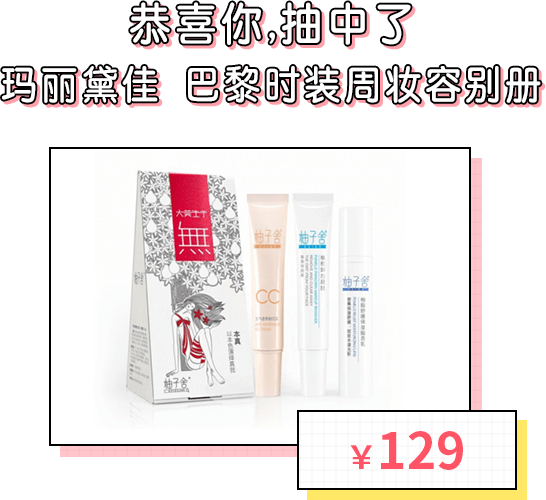
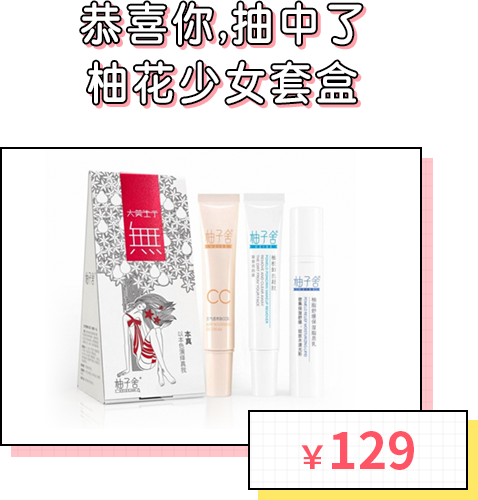
优化集金币大转盘

diff --git a/src/page/topic/beauty_town/luckdraw_3.vue b/src/page/topic/beauty_town/luckdraw_3.vue
@@ -44,7 +44,7 @@
         <div class="wheel-box">
           <div id="rotary-table" class="wheel">
             <div :class="`gift gift_${index}`" v-for="(item,index) in gift_txt" :key="index">
-              <span>{{item.prize ? item.prize : ''}}</span>
+              <span>{{item.prize_name ? item.prize_name : ''}}</span>
             </div>
           </div>
           <img class="start" src="/static/topic/beauty_down/luckdraw_3/arrow.png" alt="点击开始" @click="luckyDraw">
@@ -59,8 +59,8 @@
           <div class="received-box" v-if="first_state">
             <div class="result">
               <!--非实物：888元俏猫美妆券-->
-              <div class="p2" v-if="gift_id == '8'">
-                <img class="pro_img" src="/static/topic/beauty_down/luckdraw_3/product_888.png" alt="">
+              <div class="p2" v-if="gift_id == '7' || gift_id == '8'">
+                <img class="pro_img" :src="pro_img" alt="">
                 <p class="tip-txt">完成问卷还可以获得抽奖机会~</p>
                 <div class="next-box">
                   <span class="next" @click="shareBoxShow = true">分享</span>
@@ -70,7 +70,7 @@
               <!--实物：-->
               <div class="p2" v-else>
                 <div class="pro_box">
-                  <img class="pro_img" src="/static/topic/beauty_down/luckdraw_3/product_MLDJ.png" alt="">
+                  <img class="pro_img" :src="pro_img" alt="">
                 </div>
                 <button class="delivery" @click="goReceipt">填写收货信息</button>
               </div>
@@ -80,6 +80,11 @@
           <div class="received-box" v-else>
             <div class="result">
               <p class="p1">{{gift_msg}}</p>
+              <p class="tip-txt">完成问卷还可以获得抽奖机会~</p>
+              <div class="next-box">
+                <span class="next" @click="shareBoxShow = true">分享</span>
+                <span class="next" @click="goQuestionnaire">问卷</span>
+              </div>
             </div>
           </div>
         </div>
@@ -103,7 +108,7 @@ import common from "../../../common/common"
 import { Toast } from 'mint-ui';
 import '../../../../node_modules/mint-ui/lib/toast/style.css';
 import { setStore } from "../../../common/store";
-import { getCode, authLogin, userIsLogin, getPrize, setDraw } from "@/service/getData";
+import { getCode, authLogin, userIsLogin, getPrizeList, getLuckDraw } from "@/service/getData";
 export default {
   name: "luckDraw1230",
   data() {
@@ -111,12 +116,11 @@ export default {
       plid: '', // 推广来源
       isbg: false, //虚化背景
       first_state: true, // 第一次领取
-      // gift_txt: ['谢谢参与', '10M', '20M', '30M', '50M', '100M', '500M', '888元美妆券'],
+      // gift_txt: ['PBA经典款BB霜 小样', '玛丽黛佳 怪怪收纳袋', 'Won-in箱包（双肩）', '雅美菲套刷', '玛丽黛佳 巴黎时装周妆容别册', '柚花少女套盒', '俏猫888元美妆券', 'IPHONE X'],
       gift_txt: [],
-      gift_con: ['4', '3', '5', '6', '2','7', '1','0'], // ['谢谢参与', '10M', '20M', '30M', '50M', '100M', '500M', '888元美妆券']，对应的位置
-      gift_id: 1, // 后端返回抽中的奖品
-      gift_content: '', // 奖品内容
-      ticket_link: 'https://at.umeng.com/S15Tba', // 电影票链接
+      gift_con: ['7', '6', '5', '4', '3','2', '1','0'], // ['PBA经典款BB霜 小样', '玛丽黛佳 怪怪收纳袋', 'Won-in箱包（双肩）', '雅美菲套刷', '玛丽黛佳 巴黎时装周妆容别册', '柚花少女套盒', '俏猫888元美妆券', 'IPHONE X']，对应的位置
+      gift_id: 7, // 后端返回抽中的奖品
+      pro_img: '', // 奖品图片
       gift_msg: '', // 抽奖提示
       offOn: true, // 是否转动
       num: 0,
@@ -169,12 +173,12 @@ export default {
   methods: {
     /*获取抽奖礼品列表*/
     async getGiftList() {
-      let res = await getPrize();
-      let resData = eval(res.data);
-      for (var i in resData) {
-        this.gift_txt.push(resData[i]);
+      let res = await getPrizeList();
+      if(res.status == 'ok'){
+        this.gift_txt = res.data;
+        // console.log("奖品列表:", this.gift_txt);
       }
-      // console.log("gift_txt:", this.gift_txt);
+
     },
 
     /*抽奖*/
@@ -195,7 +199,7 @@ export default {
         if (this.offOn) { // 防止连续点击抽奖
           this.num++;
           this.offOn = !this.offOn;
-          let setDrawData = await setDraw();
+          let setDrawData = await getLuckDraw();
           if (setDrawData.status == 'ok') {
             this.ratating(setDrawData.data);
           } else {
@@ -214,22 +218,22 @@ export default {
     ratating(data) {
       let _this = this;
       // let cat = Math.floor(Math.random()*8)*45; // 前端随机
-      if (data.code == '1') {
-        _this.gift_id = 1; // 1:谢谢参与
-      } else if (data.code == '2') {
-        _this.gift_id = 2; // 2:10M
-      } else if (data.code == '3') {
-        _this.gift_id = 3; // 3:20M
-      } else if (data.code == '4') {
-        _this.gift_id = 4; // 4:30M
-      } else if (data.code == '5') {
-        _this.gift_id = 5; // 5:50M
-      } else if (data.code == '6') {
-        _this.gift_id = 6; // 6:100M
-      } else if (data.code == '7') {
-        _this.gift_id = 7; // 7:电影票
-      } else if (data.code == '8') {
-        _this.gift_id = 8; // 8:888元美妆券
+      if (data.prize_id == '1') {
+        _this.gift_id = 1; // 1:PBA经典款BB霜 小样
+      } else if (data.prize_id == '2') {
+        _this.gift_id = 2; // 2:玛丽黛佳 怪怪收纳袋
+      } else if (data.prize_id == '3') {
+        _this.gift_id = 3; // 3:Won-in箱包（双肩）
+      } else if (data.prize_id == '4') {
+        _this.gift_id = 4; // 4:雅美菲套刷
+      } else if (data.prize_id == '5') {
+        _this.gift_id = 5; // 5:玛丽黛佳 巴黎时装周妆容别册
+      } else if (data.prize_id == '6') {
+        _this.gift_id = 6; // 6:柚花少女套盒
+      } else if (data.prize_id == '7') {
+        _this.gift_id = 7; // 7:俏猫888元美妆券
+      } else if (data.prize_id == '8') {
+        _this.gift_id = 8; // 8:IPHONE X
       }
       let cat = _this.gift_con[(_this.gift_id - 1) >= 0 ? (_this.gift_id - 1) : 1] * 45; // 后端抽奖
       let rotaryTable = document.getElementById("rotary-table");
@@ -242,43 +246,43 @@ export default {
           _this.n = _this.rdm % 360;
           switch (_this.n) { // 转动幅度
             case 0:
-              // 888元美妆券
-              _this.gift_content = data.name;
+              // IPHONE X
+              _this.pro_img = '/static/topic/beauty_down/luckdraw_3/product_888.png';
               _this.isbg = true;
               break;
             case 45:
-              // 500M
-              _this.gift_content = data.name;
+              // 俏猫888元美妆券
+              _this.pro_img = '/static/topic/beauty_down/luckdraw_3/product_888.png';
               _this.isbg = true;
               break;
             case 90:
-              // 50M
-              _this.gift_content = data.name;
+              // 柚花少女套盒
+              _this.pro_img = '/static/topic/beauty_down/luckdraw_3/product_YHTH.png';
               _this.isbg = true;
               break;
             case 135:
-              // 10M
-              _this.gift_content = data.name;
+              // 玛丽黛佳 巴黎时装周妆容别册
+              _this.pro_img = '/static/topic/beauty_down/luckdraw_3/product_Magazine.png';
               _this.isbg = true;
               break;
             case 180:
-              // 谢谢参与
-              _this.gift_content = data.name;
+              // 雅美菲套刷
+              _this.pro_img = '/static/topic/beauty_down/luckdraw_3/product_YMF.png';
               _this.isbg = true;
               break;
             case 225:
-              // 20M
-              _this.gift_content = data.name;
+              // 玛丽黛佳 怪怪收纳袋',
+              _this.pro_img = '/static/topic/beauty_down/luckdraw_3/product_MLDJ.png';
               _this.isbg = true;
               break;
             case 270:
-              // 30M
-              _this.gift_content = data.name;
+              // 'Won-in箱包（双肩）
+              _this.pro_img = '/static/topic/beauty_down/luckdraw_3/product_Won_in.png';
               _this.isbg = true;
               break;
             case 315:
-              // 100M
-              _this.gift_content = data.name;
+              // PBA经典款BB霜 小样
+              _this.pro_img = '/static/topic/beauty_down/luckdraw_3/product_PAB.png';
               _this.isbg = true;
               break;
           };
@@ -713,7 +717,10 @@ export default {
         .received-box {
           // 结果提示
           .result {
-            // padding-top: 22%;
+            .p1 {
+              font-size: 2rem;
+              margin: 7rem auto;
+            }
           }
         }
       }
@@ -751,7 +758,7 @@ export default {
         .gift {
           position: absolute;
           top: 10%;
-          width: 18%;
+          width: 25%;
           color: #000;
           text-align: center;
           span {
@@ -767,44 +774,56 @@ export default {
           }
 
           &.gift_0 {
-            top: 83%;
-            left: 41%;
-            transform: rotate(180deg);
+          top: 14%;
+          left: 66%;
+            transform: rotate(45deg);
           }
           &.gift_1 {
-            top: 71%;
-            left: 13%;
-            transform: rotate(225deg);
+            top: 41%;
+            left: 77%;
+            transform: rotate(90deg);
+            span {
+              color: #DF0A36;
+            }
           }
           &.gift_2 {
-            top: 72%;
-            left: 69%;
+            top: 69%;
+            left: 65%;
             transform: rotate(135deg);
           }
           &.gift_3 {
-            top: 44%;
-            left: 80%;
-            transform: rotate(90deg);
+            top: 86%;
+            left: 37%;
+            transform: rotate(180deg);
+            span {
+              color: #DF0A36;
+            }
           }
           &.gift_4 {
-            top: 43%;
-            left: 1%;
-            transform: rotate(270deg);
+            top: 64%;
+            left: 11%;
+            transform: rotate(225deg);
           }
           &.gift_5 {
-            top: 17%;
-            left: 69%;
-            transform: rotate(45deg);
+            top: 41%;
+            left: -1%;
+            transform: rotate(270deg);
+            span {
+              color: #DF0A36;
+            }
           }
           &.gift_6 {
-            top: 15%;
-            left: 13%;
+            top: 13%;
+            left: 11%;
             transform: rotate(-45deg);
           }
           &.gift_7 {
             top: 3%;
-            left: 41%;
+            left: 39%;
             transform: rotate(0deg);
+            span {
+              color: #DF0A36;
+            }
           }
         }
       }

diff --git a/src/service/getData.js b/src/service/getData.js
@@ -186,6 +186,14 @@ export const setDraw = (data) => fetch (`/PhoneData/draw_data?API_VERSION=topic`
 // 俏猫3周年--美丽小城
   // 3周年--调查问卷答案提交
 export const setQuestionnaire = (data) => fetch (`/topic/topic_three_question`, data, 'POST')
+  // 3周年--抽奖奖品列表
+export const getPrizeList = (data) => fetch (`/topic/qcat3_list_prize`, data, 'POST')
+  // 3周年--抽奖
+export const getLuckDraw = (data) => fetch (`/topic/topic_draw3`, data, 'POST')
+  // 3周年--增加抽奖次数
+export const getMoreDraw = (data) => fetch (`/topic/set_qcat3_num`, data, 'POST')
+  // 3周年-- 完善收货地址
+export const setAddData = (data) => fetch (`/topic/add_data`, data, 'POST')
 
 // 获取订单状态数据
 export const getConfigData = (data) => fetch(`/mon/mon_config_order_status`, data, 'POST')
